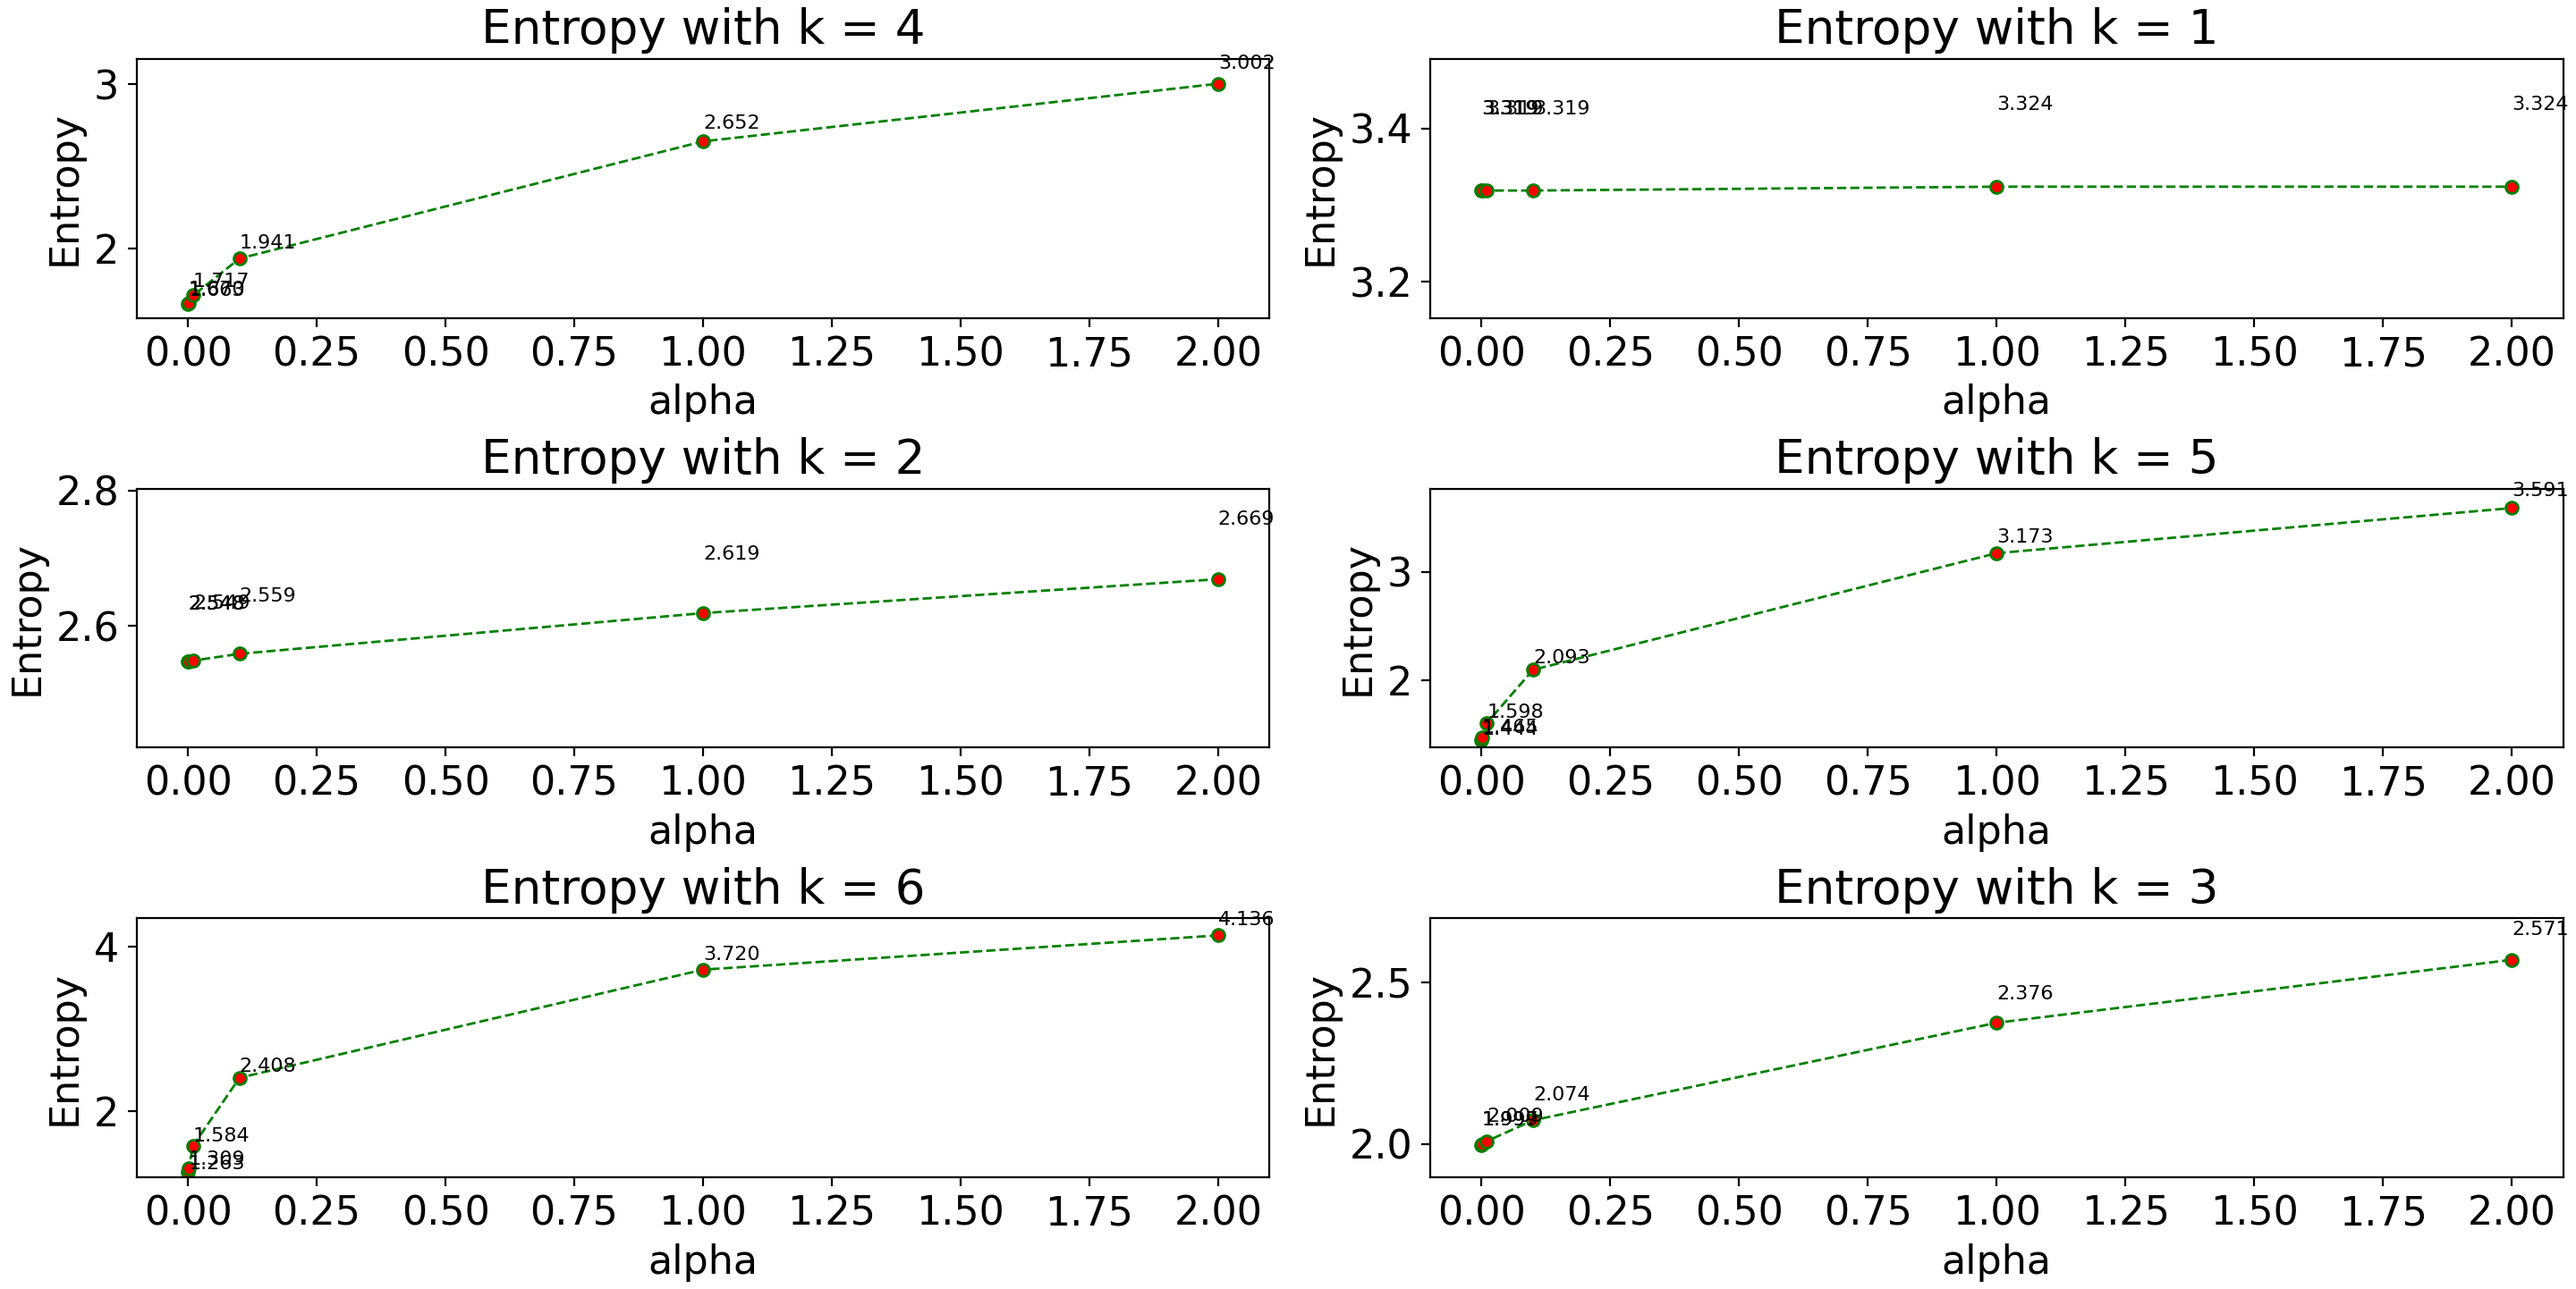
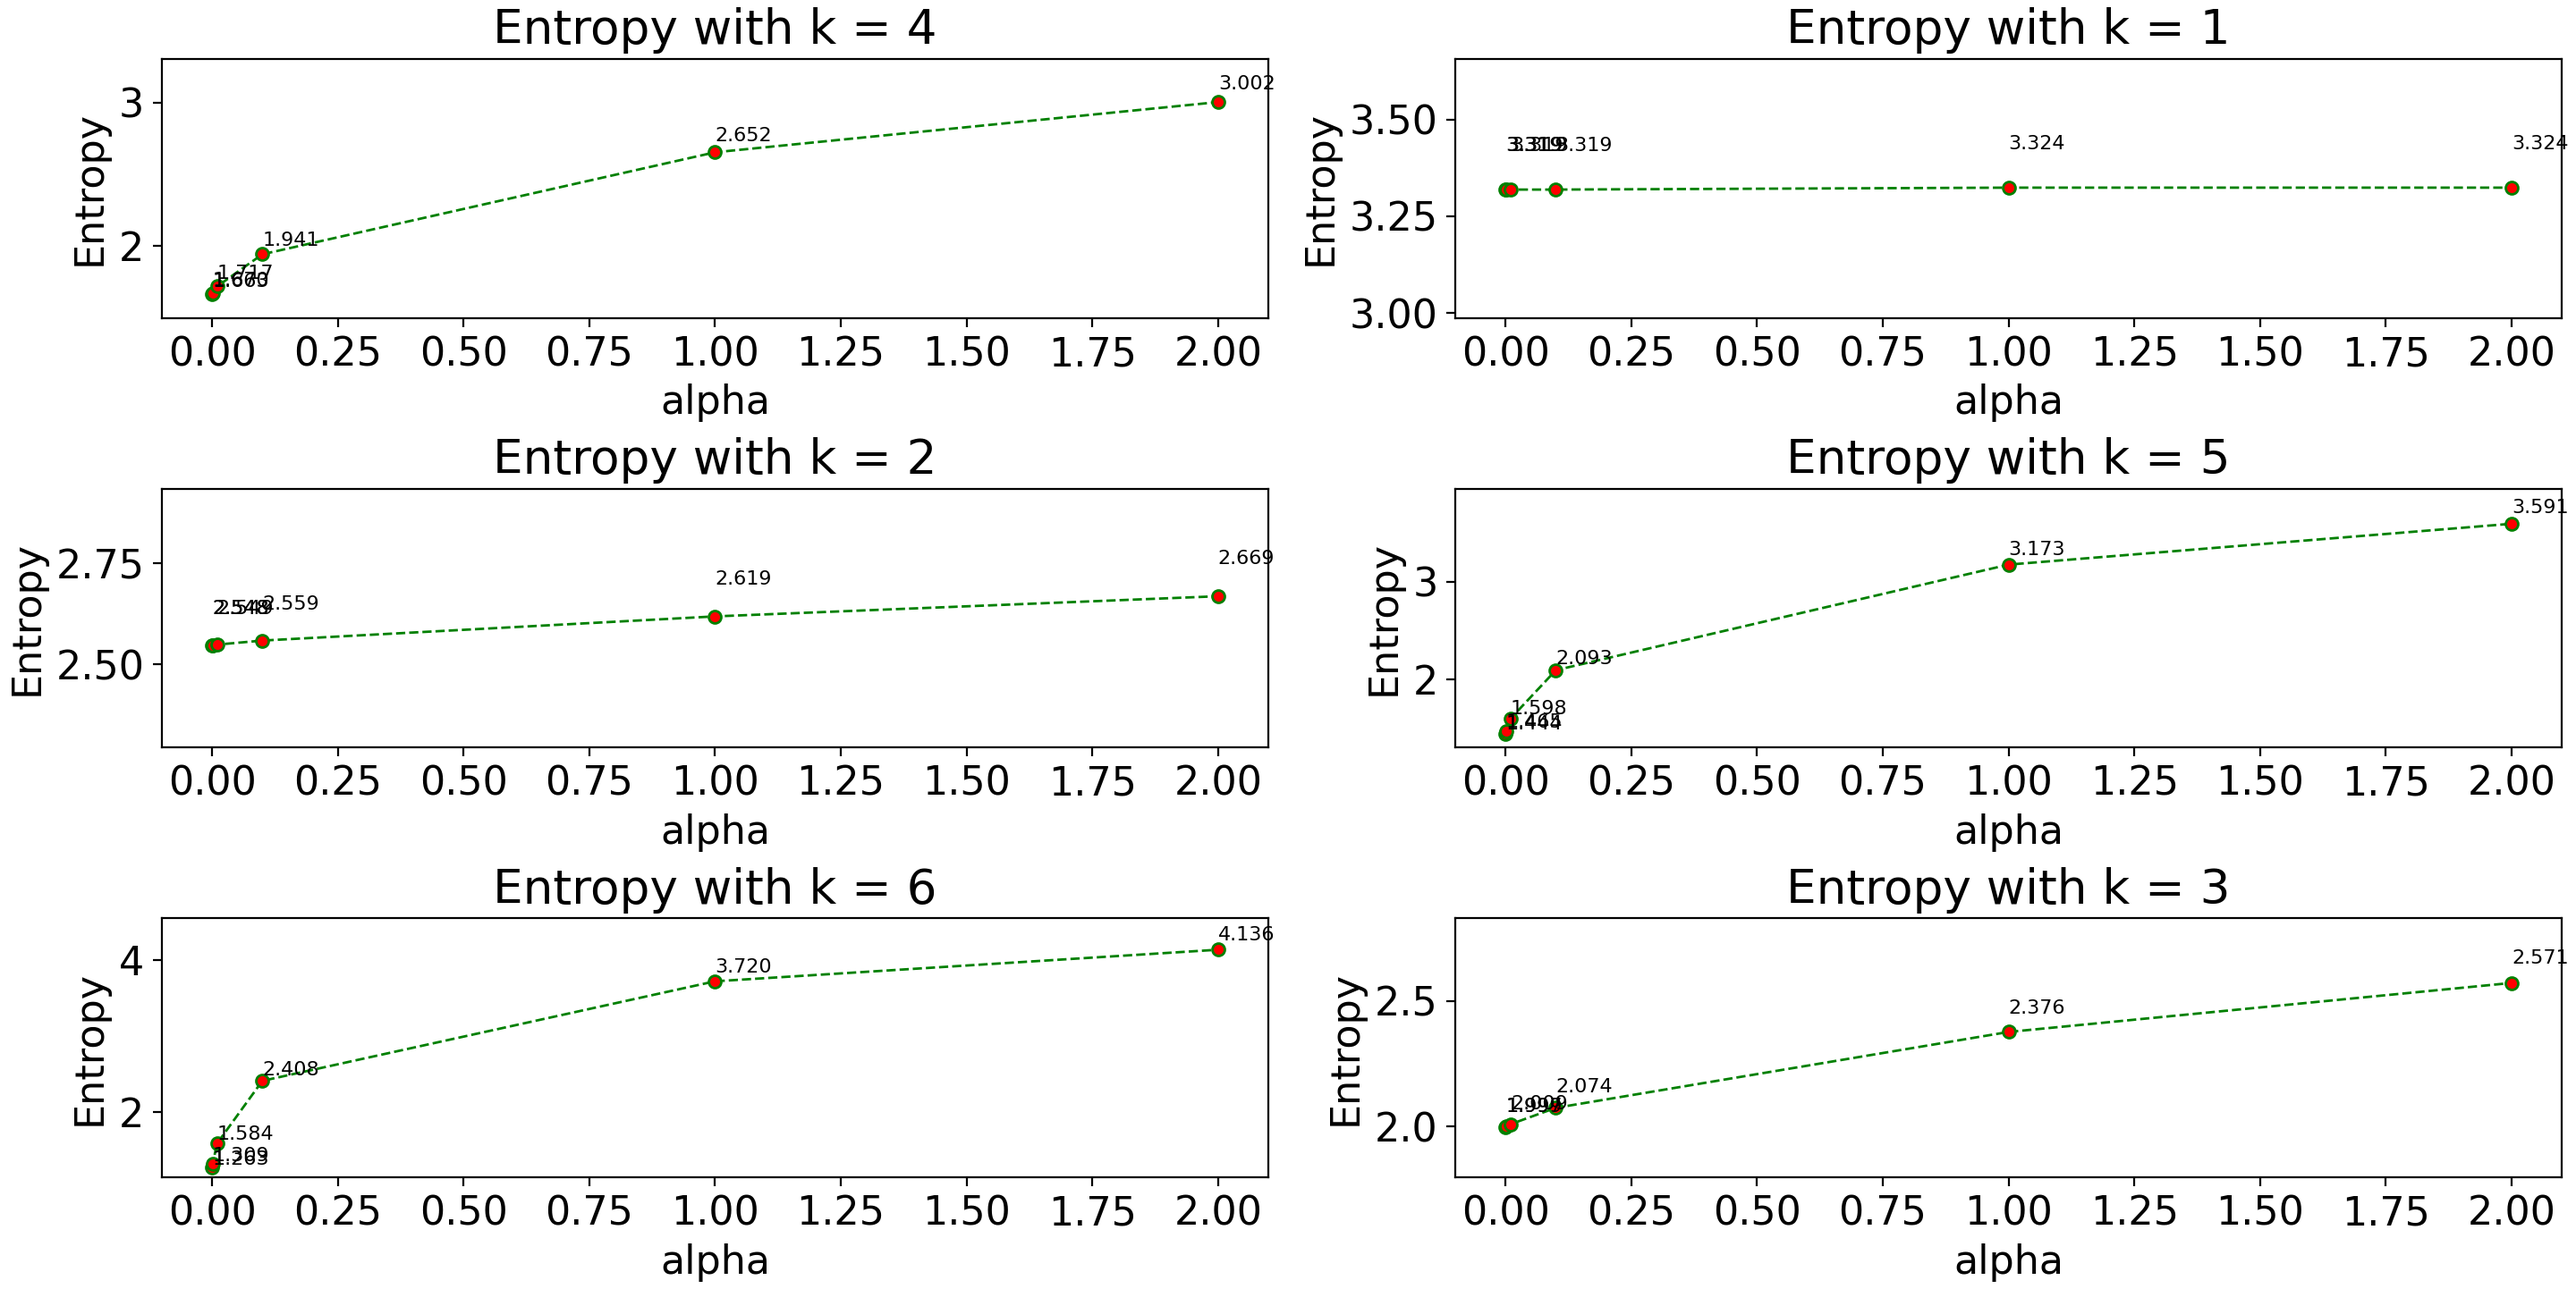
Added entropy of generated text to results

diff --git a/src/data_plotter.py b/src/data_plotter.py
@@ -10,16 +10,16 @@ class Data_Plotter:
 
         self.results = defaultdict(lambda: defaultdict(float))
         
-        # self.results = {
-        #     1:{0.0001:3.319, 0.001:3.319, 0.01:3.319, 0.1:3.319, 1:3.324, 2:3.324}, \
-        #     2:{0.0001:2.548, 0.001:2.548, 0.01:2.549, 0.1:2.559, 1:2.619, 2:2.669}, \
-        #     3:{0.0001:1.997, 0.001:1.999, 0.01:2.009, 0.1:2.074, 1:2.376, 2:2.571}, \
-        #     4:{0.0001:1.663, 0.001:1.670, 0.01:1.717, 0.1:1.941, 1:2.652, 2:3.002}, \
-        #     5:{0.0001:1.444, 0.001:1.465, 0.01:1.598, 0.1:2.093, 1:3.173, 2:3.591}, \
-        #     6:{0.0001:1.263, 0.001:1.309, 0.01:1.584, 0.1:2.408, 1:3.720, 2:4.136}
-        # }
+        self.results = {
+            1:{0.0001:3.319, 0.001:3.319, 0.01:3.319, 0.1:3.319, 1:3.324, 2:3.324}, \
+            2:{0.0001:2.548, 0.001:2.548, 0.01:2.549, 0.1:2.559, 1:2.619, 2:2.669}, \
+            3:{0.0001:1.997, 0.001:1.999, 0.01:2.009, 0.1:2.074, 1:2.376, 2:2.571}, \
+            4:{0.0001:1.663, 0.001:1.670, 0.01:1.717, 0.1:1.941, 1:2.652, 2:3.002}, \
+            5:{0.0001:1.444, 0.001:1.465, 0.01:1.598, 0.1:2.093, 1:3.173, 2:3.591}, \
+            6:{0.0001:1.263, 0.001:1.309, 0.01:1.584, 0.1:2.408, 1:3.720, 2:4.136}
+        }
         
-        self.calc_entropies()
+        # self.calc_entropies()
 
         self.plot_results()
 
@@ -66,7 +66,7 @@ class Data_Plotter:
 
             k_entropy_results = []
             for k in self.k_values:
-                ax2.annotate(f"{self.results[k][a]:0.3f}", xy=(k, self.results[k][a]+self.results[k][a]*0.01), fontsize=6)
+                ax2.annotate(f"{self.results[k][a]:0.3f}", xy=(k, self.results[k][a]+self.results[k][a]*0.01), fontsize=13)
                 ax[x_pos, y_pos].annotate(f"{self.results[k][a]:0.3f}", xy=(k, self.results[k][a]+self.results[k][a]*0.01), fontsize=8)
                 k_entropy_results.append(self.results[k][a])
             
@@ -86,7 +86,7 @@ class Data_Plotter:
         lst_entropies = [self.results[x][y] for x in self.results for y in self.results[x]]
         min_entropy = min(lst_entropies)
         max_entropy = max(lst_entropies)
-        ax2.set_ylim(min_entropy - min_entropy*0.05, max_entropy + max_entropy*0.05)
+        ax2.set_ylim(min_entropy - min_entropy*0.1, max_entropy + max_entropy*0.1)
         ax2.set_xlabel('k')
         ax2.set_ylabel('Entropy')
         ax2.set_title(f"Entropy for different values for k and alpha")
@@ -103,7 +103,7 @@ class Data_Plotter:
 
             a_entropy_results = []
             for a in self.a_values:
-                ax2.annotate(f"{self.results[k][a]:0.3f}", xy=(a, self.results[k][a]+self.results[k][a]*0.01), fontsize=6)
+                ax2.annotate(f"{self.results[k][a]:0.3f}", xy=(a, self.results[k][a]+self.results[k][a]*0.01), fontsize=13)
                 ax[x_pos, y_pos].annotate(f"{self.results[k][a]:0.3f}", xy=(a, self.results[k][a]+self.results[k][a]*0.03), fontsize=8)
                 a_entropy_results.append(self.results[k][a])
 
@@ -115,7 +115,7 @@ class Data_Plotter:
                 marker='o', markerfacecolor='red', markersize=5, label=f"k={k}")
             min_y = min(a_entropy_results)
             max_y = max(a_entropy_results)
-            ax[x_pos, y_pos].set_ylim(min_y - min_y*0.05, max_y + max_y*0.05)
+            ax[x_pos, y_pos].set_ylim(min_y - min_y*0.1, max_y + max_y*0.1)
             ax[x_pos, y_pos].set_xlabel('alpha')
             ax[x_pos, y_pos].set_ylabel('Entropy')
             ax[x_pos, y_pos].set_title(f"Entropy with k = {k}")

diff --git a/src/generator.py b/src/generator.py
@@ -3,19 +3,21 @@ from random import randint, choices, choice
 FILENAME = "./../example/example.txt"
 
 class Generator:
-    def __init__(self, text_size=10000, fcm=None) -> None:
+    def __init__(self, text_size=1000, fcm=None) -> None:
         self.fcm = fcm
+
         self.text_size = text_size
+
+        self.generated_text = ''
 
 
     def generate(self) -> str:
         alphabet = list(self.fcm.alphabet.keys())
-
         initial_context = ""
         for i in range(self.fcm.k):
             initial_context += choice(alphabet)
 
-        generated_text = initial_context
+        self.generated_text = initial_context
         context = initial_context
 
         for _ in range(self.text_size):
@@ -24,6 +26,13 @@ class Generator:
             
             context = context[1:] + predicted_symbol
 
-            generated_text += predicted_symbol
+            self.generated_text += predicted_symbol
 
-        return generated_text
+        with open('generated_text.txt', 'w') as f:
+            f.write(self.generated_text)
+
+
+    def get_entropy(self):
+        new_fcm = FCM(self.fcm.k, self.fcm.alpha, 'generated_text.txt')
+        new_fcm.run()
+        return new_fcm.entropy

diff --git a/src/main.py b/src/main.py
@@ -7,21 +7,22 @@ class Main:
     def __init__(self) -> None:
         self.fcm = FCM(*self.check_arguments())
 
+        self.fcm.run()
+
         if self.text_size:
             self.generator = Generator(self.text_size, self.fcm)
-        
-        self.fcm.run()
+            self.generator.generate()
 
         self.get_results()
 
 
     def get_results(self) -> None:
-        print(f"FCM with k={self.fcm.k}, alpha: {self.fcm.alpha}")
-        print(f"Entropy of data set: {self.fcm.entropy}")
-
         if self.text_size:
-            print(f"\nGenerated text with size {self.text_size}:")
-            print(self.generator.generate())
+            print(f"\nGenerated text with size: {self.text_size}:")
+            print(self.generator.generated_text)
+            print(f"\nEntropy of generated text: {self.generator.get_entropy()}")
+        print(f"FCM with k={self.fcm.k}, alpha: {self.fcm.alpha}, text size: {self.fcm.total_occurrences}")
+        print(f"Entropy of data set: {self.fcm.entropy}")
 
 
     def usage(self):

diff --git a/README.md b/README.md
@@ -1,2 +1,8 @@
 # Finite_Context_Model
 Project under the course of Algorithmic Theory of Information.
+
+## How to run
+On the ./src dir:
+```
+python3 main.py -args
+```
